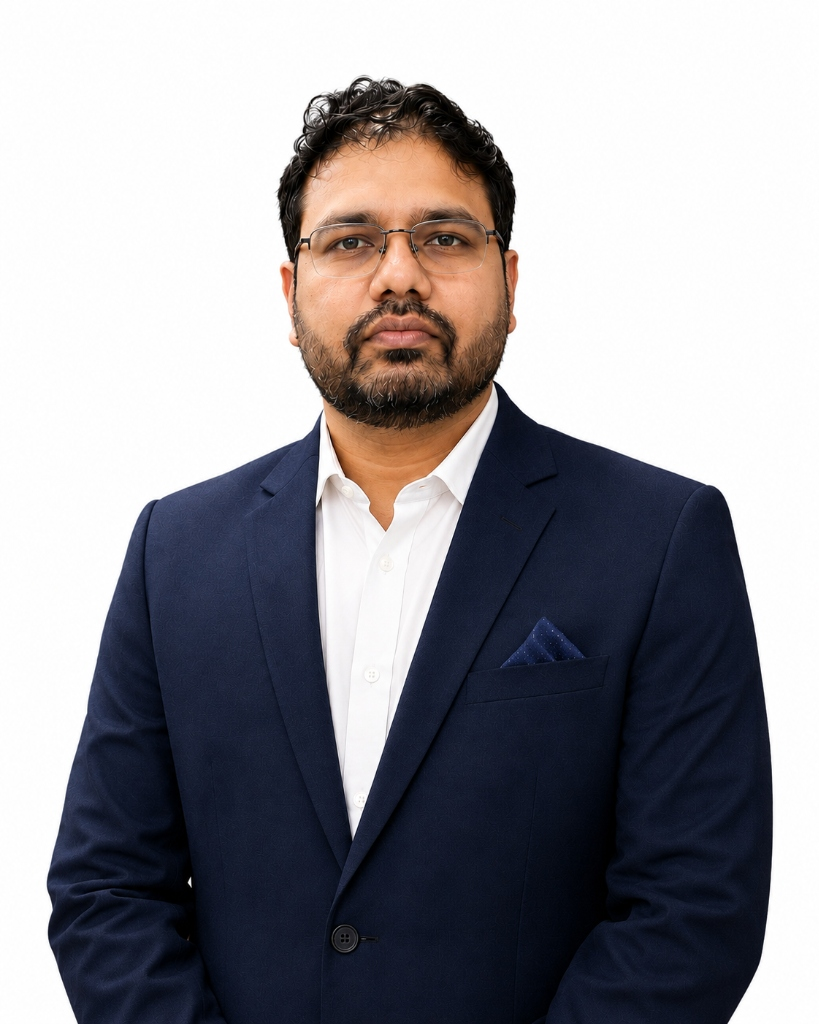
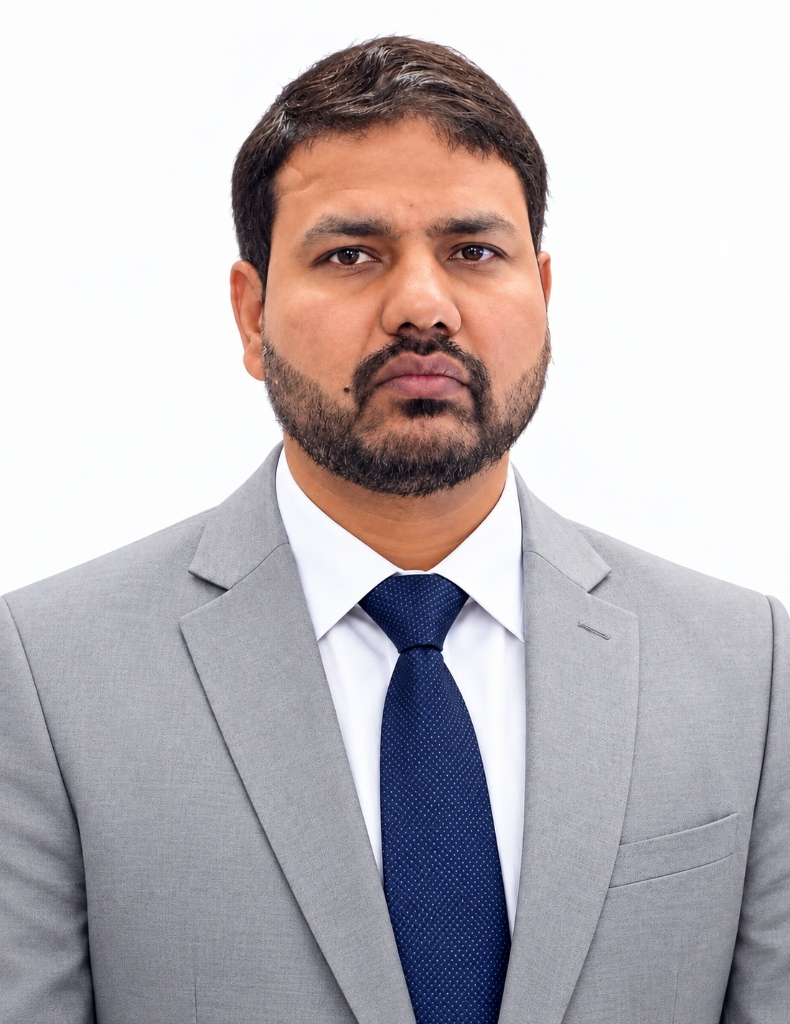
fix(directors): update Sushil Dagur canonical portrait across website and OpenGraph metadata

diff --git a/src/app/(public)/directors/sushil-dagur/page.tsx b/src/app/(public)/directors/sushil-dagur/page.tsx
@@ -31,7 +31,7 @@ export const metadata: Metadata = {
     images: [
       {
         url: "https://empriseacademy.com/images/directors/sushil-dagur.jpg",
-        width: 819,
+        width: 790,
         height: 1024,
         alt: "Sushil Dagur — Director, Educationist & Physics Mentor at Emprise Academy",
       },
